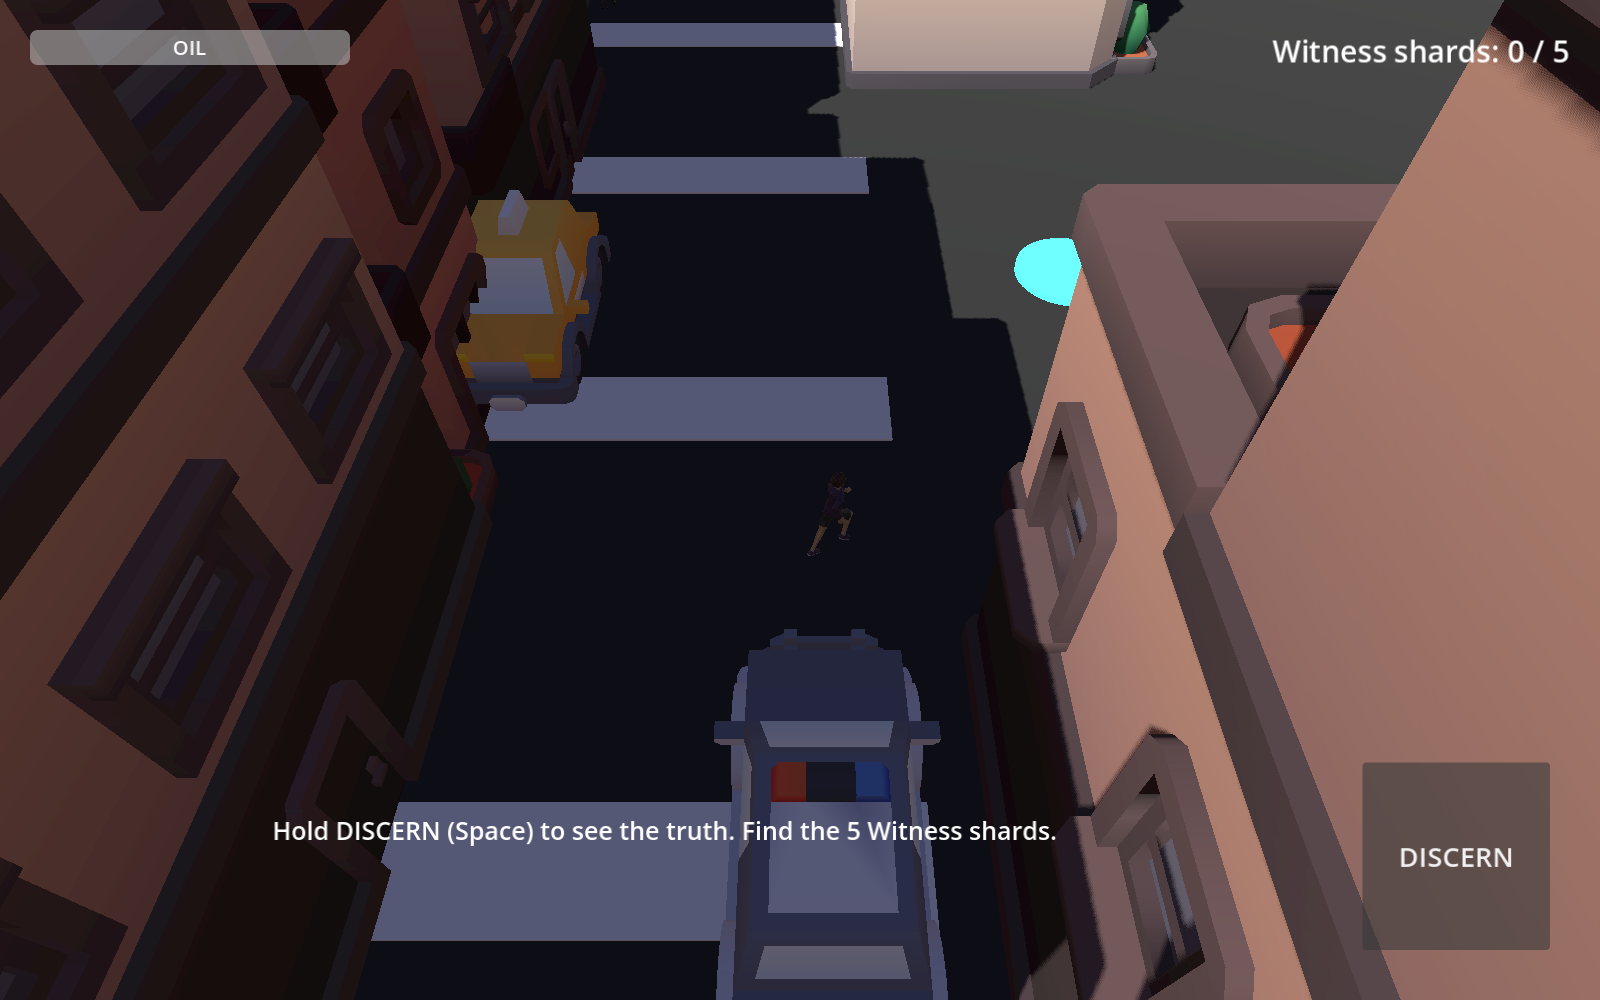
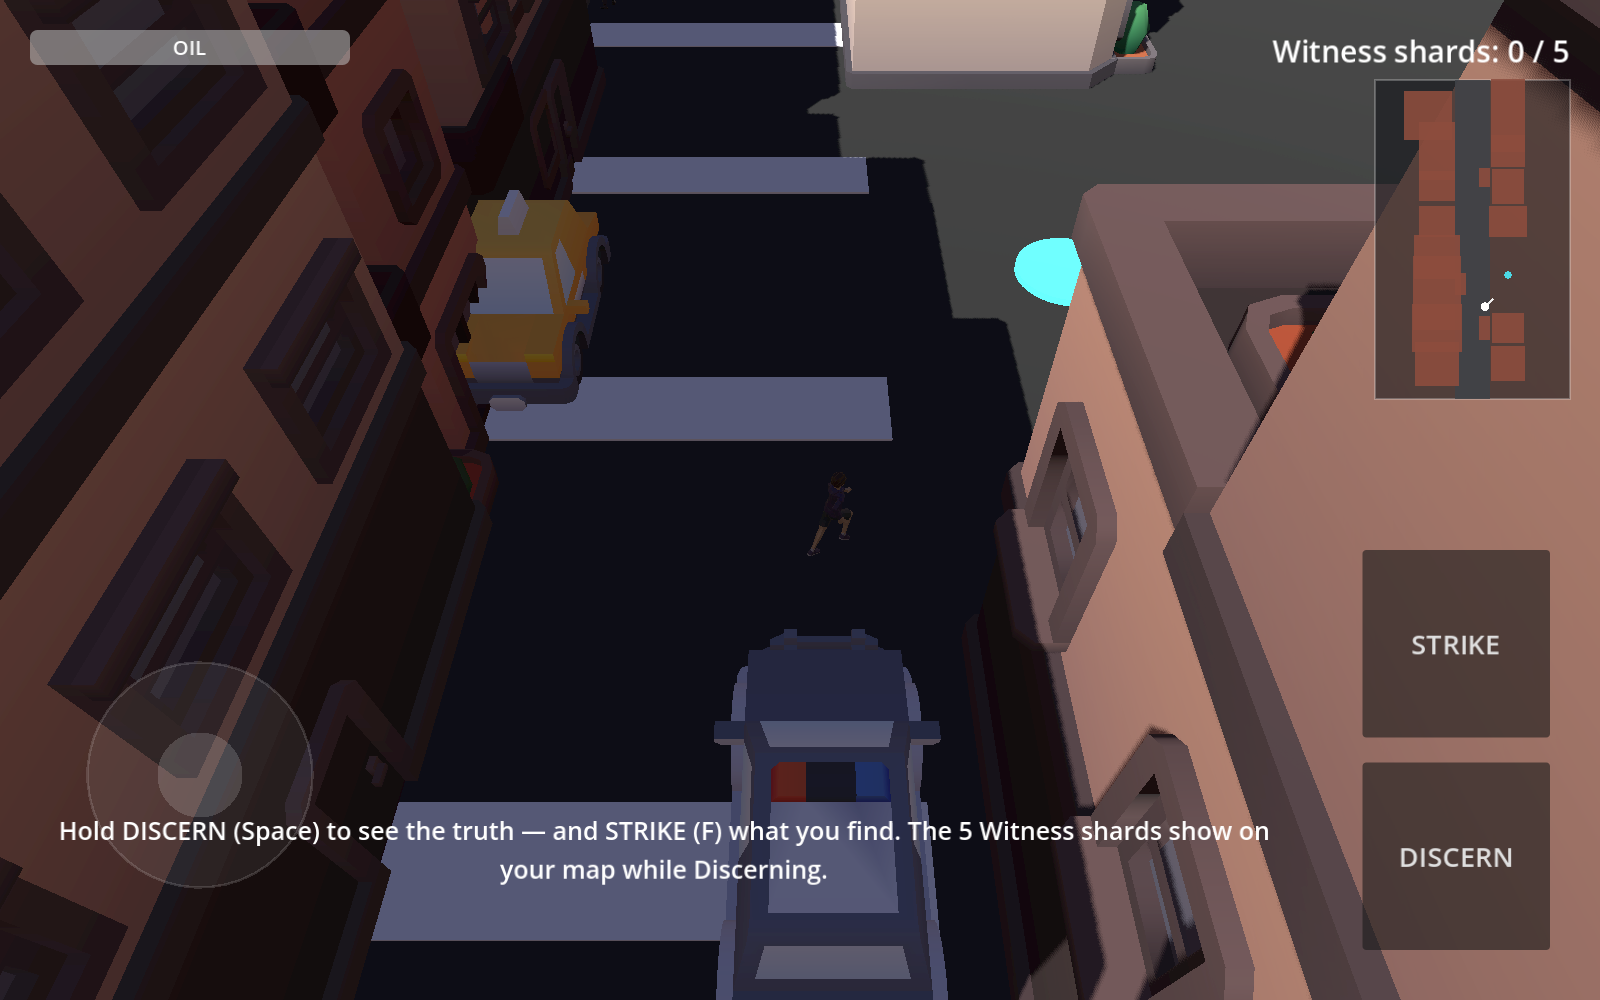
First deliverance encounter: the alley spirit fights back
- spirit.gd: Principality enemy, visible and tangible only while
  Discerning; hunts you when the lamp is lit, drains Oil on touch
  (drained dry = Discernment collapses while it is still out there);
  three strikes casts it out, death animation + fade, lamp refills
- STRIKE: new action (F key / on-screen button above DISCERN),
  alternating punch animations, generous melee range with facing check
- Flash-message HUD system (cast-out, dry lamp, Watcher catch lines)
- Locomotion-only animation looping; deliverances persist in saves

Changed region(s): [[0.8438, 0.062, 1.0, 0.403], [0.0312, 0.713, 0.7812, 0.899], [0.8438, 0.527, 0.9688, 0.744]]

diff --git a/web/index.html b/web/index.html
@@ -111,7 +111,7 @@ body {
 
 		<script src="index.js"></script>
 		<script>
-const GODOT_CONFIG = {"args":[],"canvasResizePolicy":2,"emscriptenPoolSize":8,"ensureCrossOriginIsolationHeaders":true,"executable":"index","experimentalVK":false,"fileSizes":{"index.pck":7918876,"index.wasm":37700666},"focusCanvas":true,"gdextensionLibs":[],"godotPoolSize":4};
+const GODOT_CONFIG = {"args":[],"canvasResizePolicy":2,"emscriptenPoolSize":8,"ensureCrossOriginIsolationHeaders":true,"executable":"index","experimentalVK":false,"fileSizes":{"index.pck":8131040,"index.wasm":37700666},"focusCanvas":true,"gdextensionLibs":[],"godotPoolSize":4};
 const GODOT_THREADS_ENABLED = false;
 const engine = new Engine(GODOT_CONFIG);
 